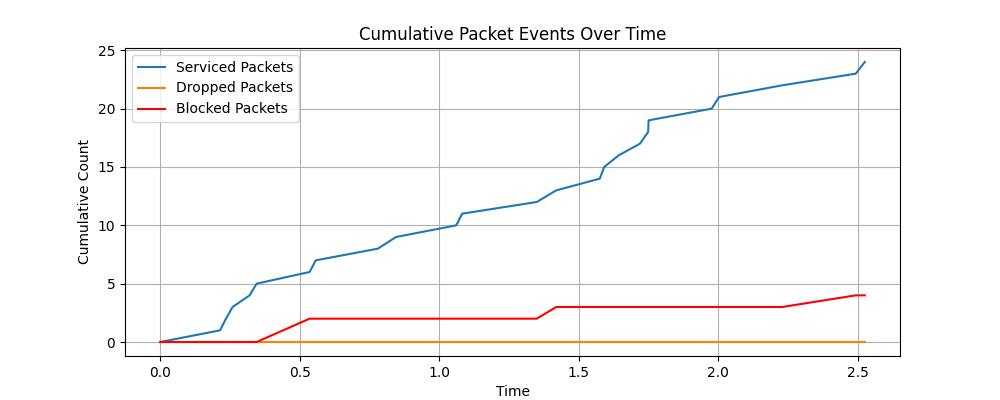
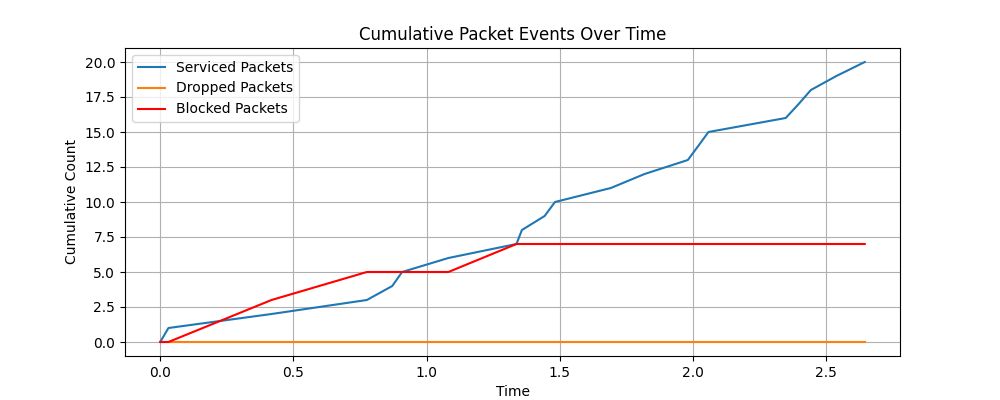
start CUBIC

diff --git a/mm1.py b/mm1.py
@@ -7,6 +7,7 @@ Date: 3/17/2025
 
 #== Imports ==#
 import os
+import math
 import heapq
 
 import matplotlib.pyplot as plt
@@ -105,6 +106,49 @@ class TCPReno(CongestionControl):
         # log the current cwnd and time
         self.log_cwnd(time, "Multiplicative Decrease")
         print(f"[{time:.4f}] [TCP Reno], cwnd={self.cwnd}, ssthresh={self.ssthresh}, state=Multiplicative Decrease")
+
+class TCPCubic(CongestionControl):
+    def __init__(self):
+        super().__init__()
+        self.beta = 0.7             # multiplicative decrease factor
+        self.c = 0.4                # CUBIC scaling constant
+        self.w_max = self.cwnd      # last maximum cwnd before loss
+        self.epoch_start = None     # time when the current epoch started
+
+    def on_ack(self, time: float):
+        '''
+        handle ACKs in TCP CUBIC
+
+        Args:
+            time (float): the time at which the ACK was received
+        '''
+        if self.epoch_start is None:
+            self.epoch_start = time
+            self.w_max = self.cwnd
+
+        t = time - self.epoch_start
+        K = ((self.w_max * (1 - self.beta)) / self.c) ** (1/3)
+        cubic_cwnd = self.c * ((t - K) ** 3) + self.w_max
+
+        # Ensure cwnd increases smoothly
+        self.cwnd = max(1, round(cubic_cwnd))
+
+        self.log_cwnd(time, "Cubic Increase")
+        print(f"[{time:.4f}] [TCP CUBIC], cwnd={self.cwnd}, w_max={self.w_max}, state=Cubic Increase")
+
+    def on_loss(self, time: float):
+        '''
+        handle packet loss in TCP CUBIC
+
+        Args:
+            time (float): the time at which the packet loss was detected
+        '''
+        self.w_max = self.cwnd
+        self.cwnd = max(1, round(self.cwnd * self.beta))
+        self.epoch_start = None  # reset epoch on loss
+
+        self.log_cwnd(time, "Cubic Loss")
+        print(f"[{time:.4f}] [TCP CUBIC], cwnd={self.cwnd}, w_max={self.w_max}, state=Cubic Loss")
 
 #== MM1 Queue Classes ==#
 class PacketStatus(Enum):
@@ -356,7 +400,7 @@ class Queue():
             self.block_log.append(self.n_block)
 
 class Simulator():
-    def __init__(self, lmbda: float, mu: float, theta: float, size: int | None, is_exp_drop: bool = False, use_tcp_reno: bool = False):
+    def __init__(self, lmbda: float, mu: float, theta: float, size: int | None, is_exp_drop: bool = False, tcp_cc: str = None):
         '''
         init instance of simulator
 
@@ -366,7 +410,7 @@ class Simulator():
             theta (float): deadline rate or deadline time
             size (int | None): size of queue (None if infinite)
             is_exp_drop (bool, optional): does deadline time follow exp dist. Defaults to False.
-            uce_tcp_reno (bool, optional): use TCP Reno congestion control. Defaults to False.
+            tpc_cc (str, optional): congestion control algorithm to use. Defaults to None.
         '''
         self.lmbda = lmbda
         self.mu = mu
@@ -374,8 +418,12 @@ class Simulator():
         self.size = size
         self.is_exp_drop = is_exp_drop
 
-        self.use_tcp_reno = use_tcp_reno
-        self.cc = TCPReno() if use_tcp_reno else None
+        if tcp_cc == "reno":
+            self.cc = TCPReno()
+        elif tcp_cc == "cubic":
+            self.cc = TCPCubic()
+        else:
+            self.cc = None
 
         # create instance of queue
         self.queue = Queue(self.size)
@@ -396,7 +444,7 @@ class Simulator():
 
         # process packets until specified num of packet is reached
         while packet_id < n_packet:
-            cwnd = self.cc.get_cwnd() if self.use_tcp_reno else 1
+            cwnd = self.cc.get_cwnd() if self.cc is not None else 1
 
             for _ in range(cwnd):
                 if packet_id >= n_packet:
@@ -469,8 +517,6 @@ class Simulator():
             plt.plot(times, cwnds, color='black', alpha=0.6, label='TCP cwnd')
 
             # Fill background based on TCP state
-            print(states)
-            print(times)
             ax = plt.gca()
             for i in range(len(times) - 1):
                 state = states[i]
@@ -503,7 +549,7 @@ def main():
     is_exp_drop = False
     
     # init simulator
-    sim = Simulator(lmbda=lmbda, mu=mu, theta=theta, size=queue_size, is_exp_drop=is_exp_drop, use_tcp_reno=True)
+    sim = Simulator(lmbda=lmbda, mu=mu, theta=theta, size=queue_size, is_exp_drop=is_exp_drop, tcp_cc="cubic")
 
     # run sim
     sim_pb, sim_pd, sim_counts = sim.run(n_packet=n_packet)
